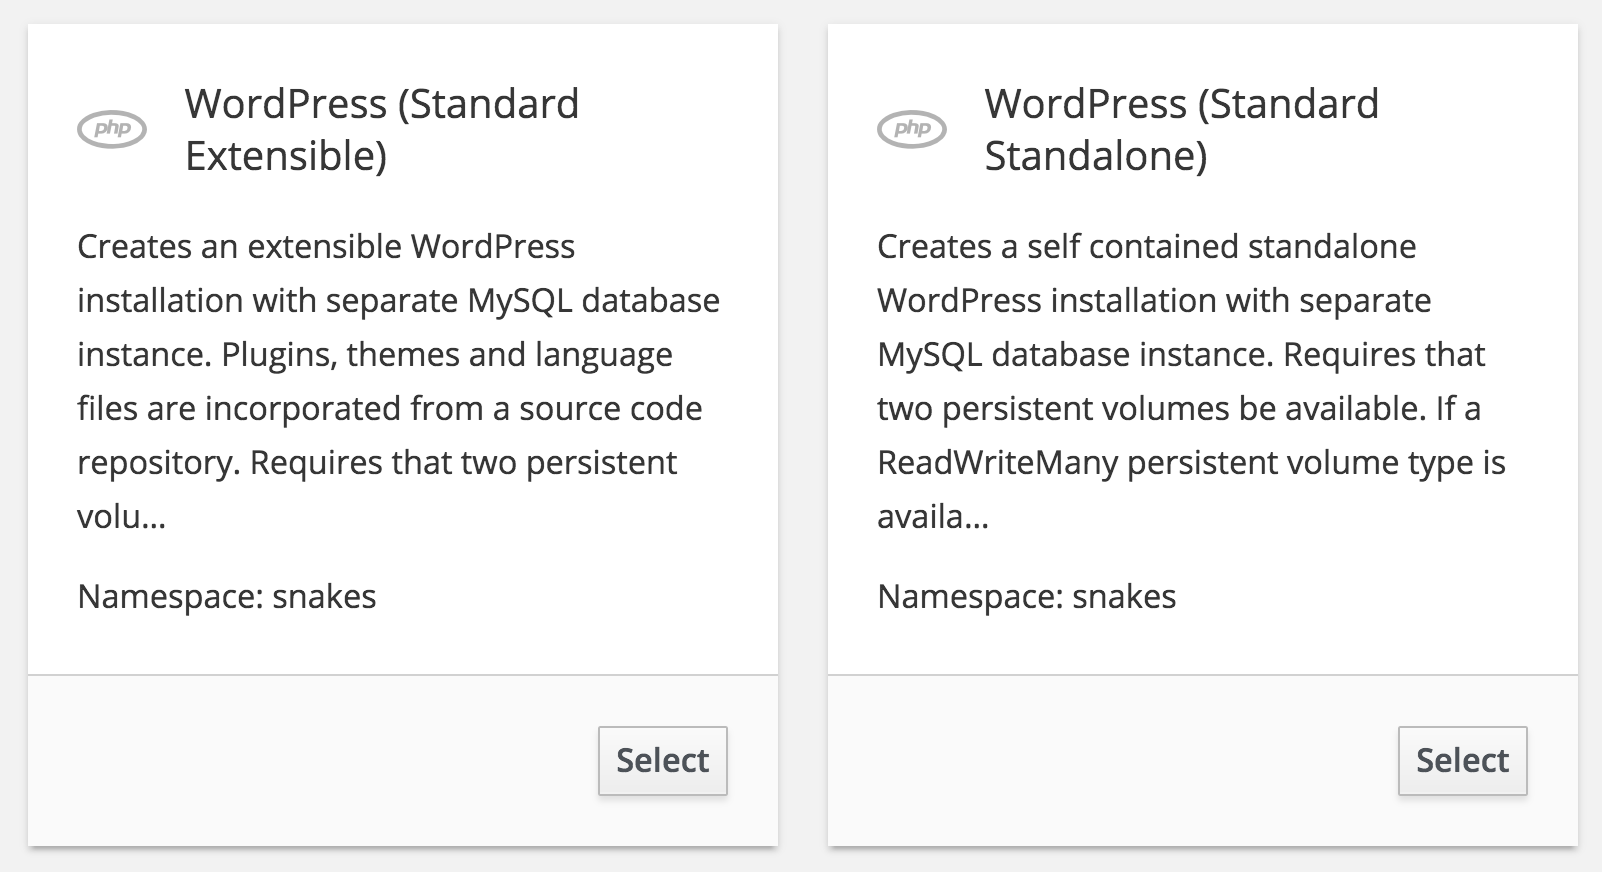
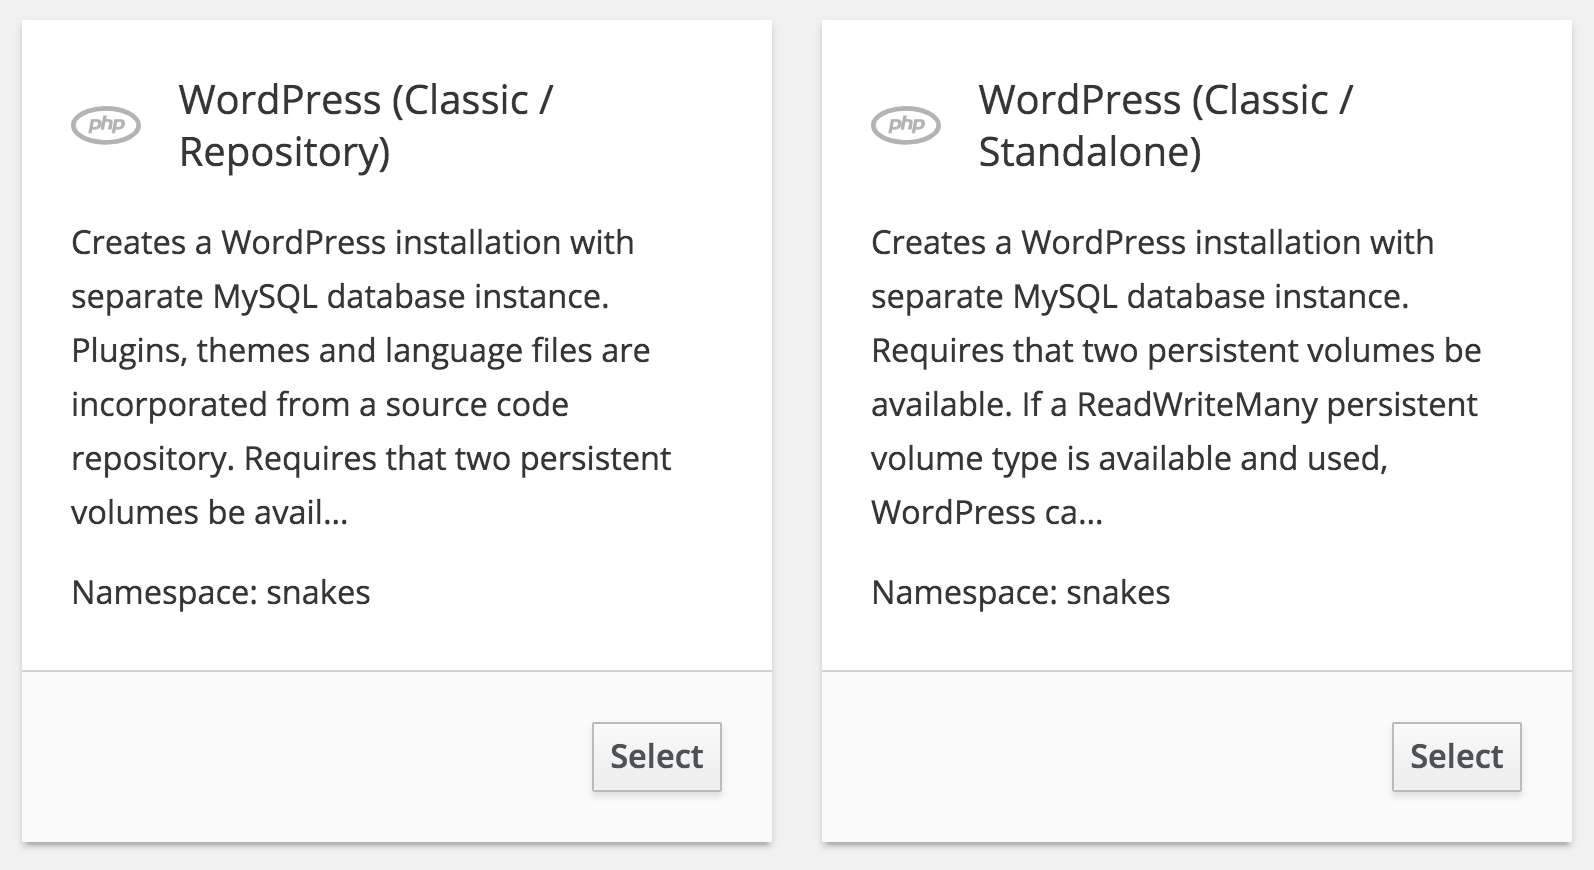
Update documentation for new template names.

diff --git a/README.md b/README.md
@@ -5,9 +5,12 @@ This repository implements a way of quickly deploying WordPress to OpenShift 3.
 
 Provided in the repository are OpenShift templates for deploying WordPress in a number of different configurations suitable for production and testing environments.
 
-These include the ability to deploy a self contained standalone instance of WordPress where all data related to the instance is maintained in a persistent volume. Plus, the ability to deploy an instance of WordPress where plugins, themes and language files can be stored in a source code repository and incorporated into the WordPress instance by re-building the application to include them.
+When running, all data related to the WordPress instance is maintained in a persistent volume so it can be updated and changes retained. If the deployment is linked to a repository, you can have updates to plugins, themes and language files copied from a source code repository by re-building the application. This will allow you to keep the code for our own custom plugins and themes under version control.
 
-Because the repository contains custom S2I scripts, which will be pulled down every time a re-build of the application image occurs, it is recommended that you create your own fork of the repository and work from it. This will ensure that you are using a stable version of the scripts and will not be affected by future changes made to this repository. You can update your fork from this repository later if you need future changes which may be made.
+Fork this Repository First
+--------------------------
+
+Before using this repository, it is recommended that fork it and and use your copy. This will ensure that you are using a stable version of the scripts and will not be affected by future changes made to this repository. You can update your fork from this repository later if you need future changes which may be made.
 
 To fork the repository, use the **Fork** button on the home page for this repository on GitHub.
 
@@ -30,7 +33,7 @@ oc new-build --name wordpress php:7.0~https://github.com/openshift-evangelists/w
 
 In this example the URL of the original for this source repository is used. If you have created a fork of this repository, ensure you use the URL for your fork.
 
-This will by default create an image which uses the latest version of WordPress available.
+This will by default create an image which uses the latest version of WordPress available. The version of PHP used is dictated by the version of the PHP S2I builder you supply to the ``oc new-build`` command.
 
 Loading the Templates
 ---------------------
@@ -51,7 +54,7 @@ To deploy a fresh WordPress instance, from the web console select _Add to Projec
 
 ![Deployment Options](./screenshots/browse-catalog-wordpress.png)
 
-Of these options, select _WordPress (Standard Standalone)_. This option will create a typical standard installation for running WordPress where everything is self contained within the persistent volume.
+Of these options, select _WordPress (Classic / Standalone)_. This option will create an installation of WordPress where everything is self contained within the persistent volume.
 
 The configuration requires two persistent volumes be available. The default persistent volume type used for WordPress data will be _ReadWriteOnce_. This is the type of persistent volume which is normally available in OpenShift clusters hosted on cloud environments such as AWS, Google and Azure. This includes the hosted OpenShift Online service provided by Red Hat.
 
@@ -59,9 +62,9 @@ When this persistent volume type is all that is available, the WordPress instanc
 
 If your OpenShift cluster has persistent volumes of type _ReadWriteMany_, you can instead use this persistent volume type. When this persistent volume type is used, you can scale up WordPress to more than 1 replica, and also enable _Rolling_ deployment strategy.
 
-Select _WordPress (Standard Standalone)_ and you will be presented with a form to fill out details for the WordPress instance to be created.
+Select _WordPress (Classic / Standalone)_ and you will be presented with a form to fill out details for the WordPress instance to be created.
 
-![Standard Installation](./screenshots/wordpress-standard-standalone.png)
+![Standard Installation](./screenshots/wordpress-classic-standalone.png)
 
 Change the name of the WordPress instance if desired.
 
